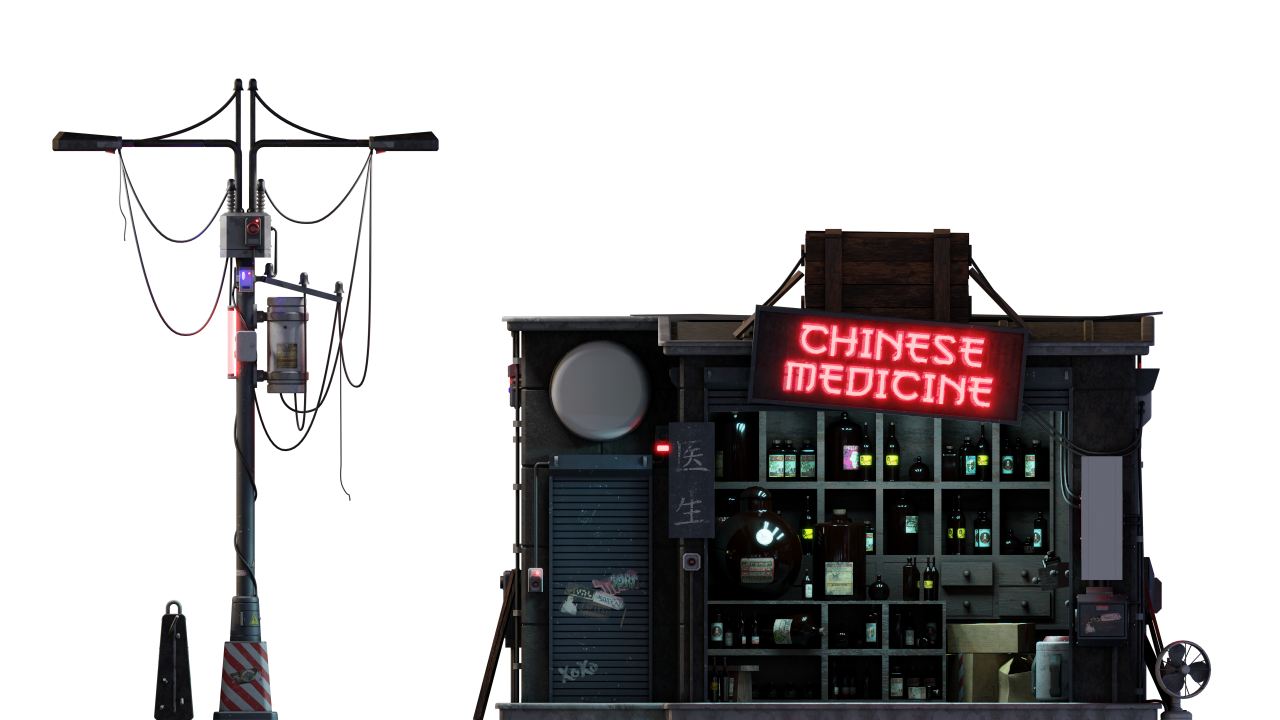
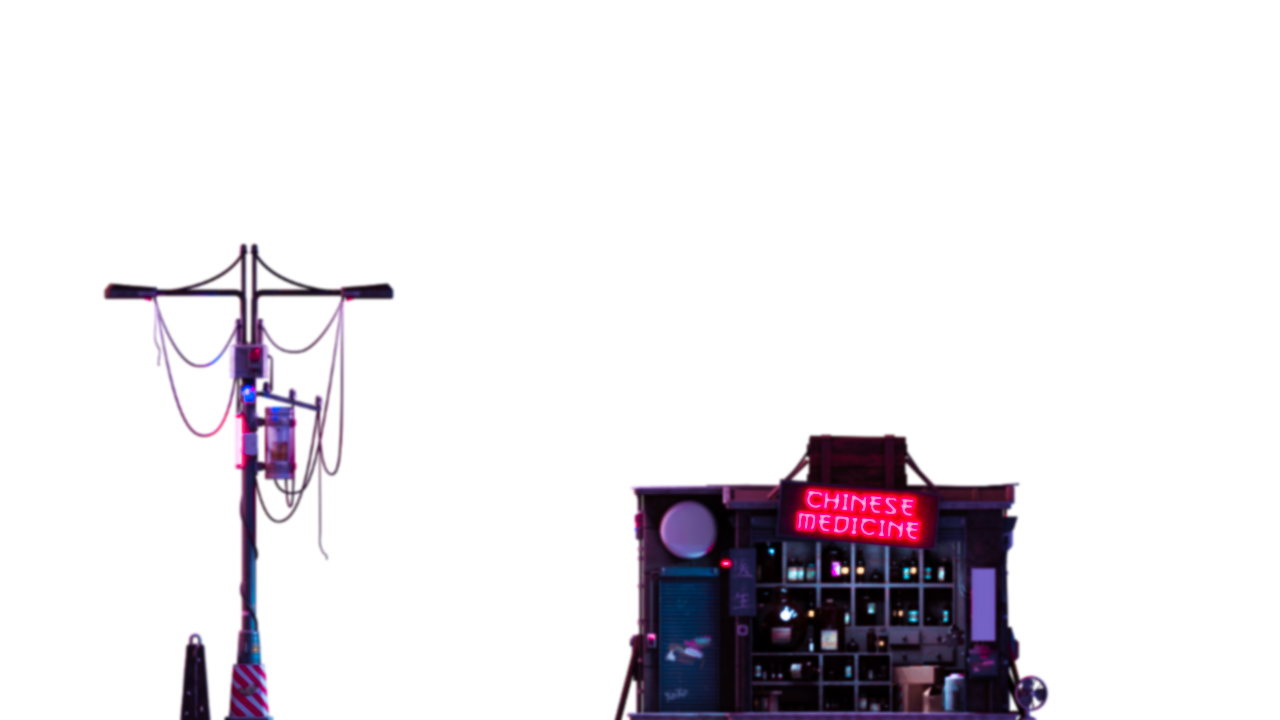
Graphics revamp

diff --git a/Project/game.js b/Project/game.js
@@ -63,7 +63,8 @@ function preload() {
 
     player_img = loadImage('images/player.png', () => loaded++);
     collectible = loadImage('images/collectible.png', () => loaded++);
-    obstacle = loadImage('images/obstacle.png', () => loaded++);
+    obstacleBOT = loadImage('images/obstacle.png', () => loaded++);
+    obstacleTOP = loadImage('images/obstacle_F.png', () => loaded++);
 
     game_background_s = loadImage('images/720p/s.png', () => loaded++);
 
@@ -93,13 +94,13 @@ function setup() {
     laser = new Laser;
 
     background_0 = new Image_rendering(game_background_s, game_background_s, game_background_s, 1);
-    background_1 = new Image_rendering(game_background_b1, game_background_b2, game_background_b2, 1.5);
-    background_2 = new Image_rendering(game_background_c1, game_background_c2, game_background_c2, 2);
+    background_1 = new Image_rendering(game_background_c1, game_background_c2, game_background_c2, 1.5);
+    background_2 = new Image_rendering(game_background_b1, game_background_b2, game_background_b2, 2);
     background_3 = new Image_rendering(game_background_f1, game_background_f2, game_background_f2, 2.5);
 }
 
 function draw() {
-    if (loaded != 13) {
+    if (loaded != 14) {
     } else {
         if (!loaded2) {
             div_create_all();

diff --git a/Project/object.js b/Project/object.js
@@ -39,8 +39,8 @@ class Collision_object {
 
     //Creating visual representation of obstacles
     render() {
-        image(obstacle, this.object_x, 0, this.width, this.hole_center - this.hole_size / 2);
-        image(obstacle, this.object_x, this.hole_center + this.hole_size / 2, this.width, height - this.hole_center + this.hole_size / 2);
+        image(obstacleTOP, this.object_x, 0, this.width, this.hole_center - this.hole_size / 2);
+        image(obstacleBOT, this.object_x, this.hole_center + this.hole_size / 2, this.width, height - this.hole_center + this.hole_size / 2);
 
         if (this.has_pickup) {
             image(collectible, this.object_x + this.width / 2 - this.hole_size / 4, this.hole_center - this.hole_size / 4, this.hole_size / 2, this.hole_size / 2);

diff --git a/Project/css/laser.css b/Project/css/laser.css
@@ -27,10 +27,10 @@
     top: 0;
     width: 100vw;
     height: var(--laser_height);
-    border: 3px solid rgb(158, 19, 19);
+    border: 3px solid rgb(84, 19, 158);
     border-right: none;
     border-left: none;
-    background: linear-gradient(80deg, rgba(133, 6, 6, 1) 0%, rgba(227, 66, 13, 1) 33%, rgba(175, 0, 0, 1) 66%, rgba(246, 0, 0, 1) 99%);
+    background: linear-gradient(80deg, rgb(133, 6, 116) 0%, rgb(227, 13, 198) 33%, rgb(120, 0, 175) 66%, rgb(246, 0, 213) 99%);
     background-size: 400% 400%;
     animation: gradient 1s ease infinite;
 }

diff --git a/Project/player.js b/Project/player.js
@@ -1,7 +1,7 @@
 class Player {
     constructor() {
         this.player_center = height / 2;
-        this.player_size = 0.03 * height;
+        this.player_size = 0.05 * height;
         this.player_y = this.player_center - this.player_size / 2;
         this.player_x = 0.1 * width - this.player_size / 2;
         this.gravity = 3; //determines how fast does the player fall
